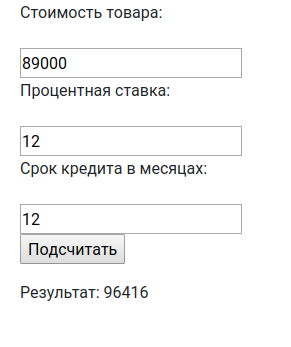
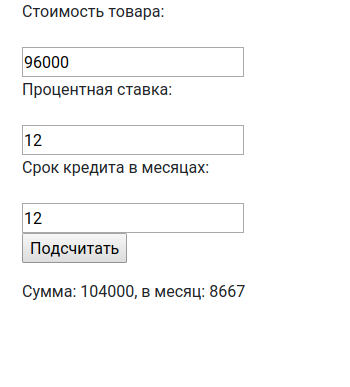
fix image, small change template

diff --git a/site-form-works/credit_calc/templates/app/calc.html b/site-form-works/credit_calc/templates/app/calc.html
@@ -20,7 +20,7 @@
     </div>
     <div class="left-margin width300">
         {% if result %}
-            <p>Результат: {{result}}</p>
+            <p>Сумма: {{common_result}}, в месяц: {{ result }}</p>
         {% endif %}
     </div>
 </body>
